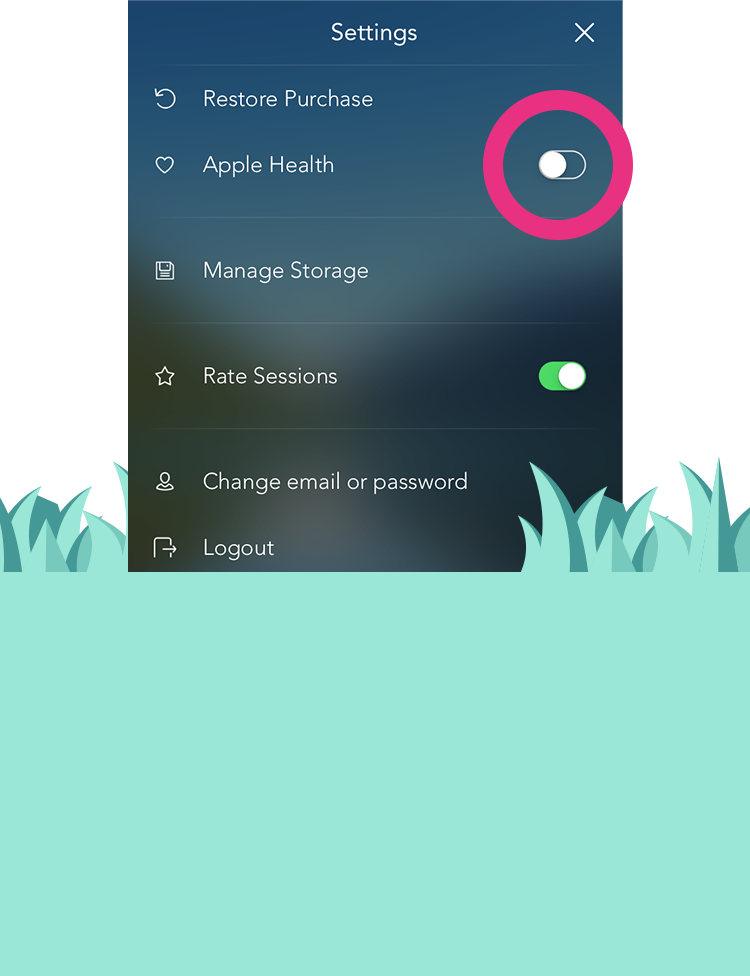
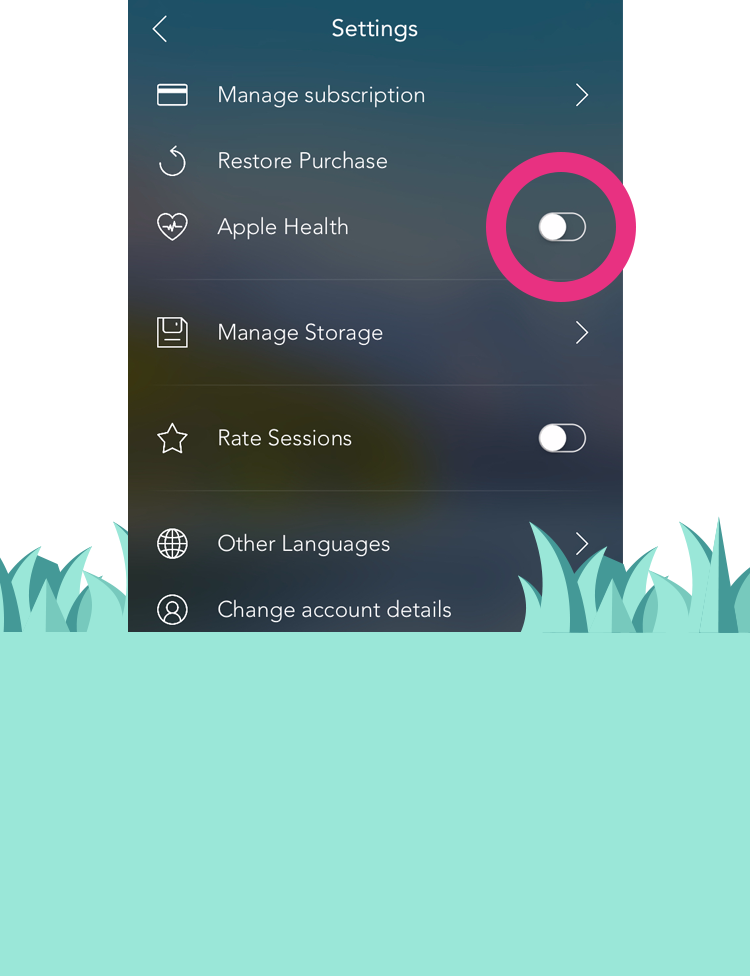
MV-375: update meditation onboarding

diff --git a/src/components/modals/meditation-set-up/meditation-set-up.modal.tsx b/src/components/modals/meditation-set-up/meditation-set-up.modal.tsx
@@ -1,9 +1,5 @@
 import React, { PureComponent } from "react";
-import {
-    NativeScrollEvent,
-    NativeSyntheticEvent,
-    ScrollView
-} from "react-native";
+import { NativeScrollEvent, NativeSyntheticEvent, Platform, ScrollView } from "react-native";
 import { Navigation } from "react-native-navigation";
 import { Style } from "../../../styles";
 import assets from "./assets";
@@ -23,17 +19,20 @@ const screens = [
     {
         backgroundImage: assets[0],
         heading: "1. download calm",
-        subheading: "First, download Calm and tap profile icon"
+        subheading: "First, download Calm and tap more icon"
     },
     {
         backgroundImage: assets[1],
-        heading: "2. tap settings",
-        subheading: "Scroll down and tap settings"
+        heading: "2. tap profile > settings",
+        subheading: "You’ll find settings in Profile page"
     },
     {
         backgroundImage: assets[2],
         heading: "3. connect",
-        subheading: "Switch on the “Google Fit” settings"
+        subheading: Platform.select({
+            android: "Switch on the “Google Fit” settings",
+            ios: "Switch on the “Apple Health” settings"
+        })
     },
     {
         backgroundImage: assets[3],
@@ -43,7 +42,6 @@ const screens = [
 ];
 
 class MeditationSetUpContainer extends PureComponent<IProps, IState> {
-
     public state = {
         activeIndex: 0
     };
@@ -91,9 +89,7 @@ class MeditationSetUpContainer extends PureComponent<IProps, IState> {
 
     private handleMomentumScrollEnd = ({
         nativeEvent: {
-            contentOffset: {
-                x
-            }
+            contentOffset: { x }
         }
     }: NativeSyntheticEvent<NativeScrollEvent>) => {
         const activeIndex = indices.findIndex((offset) => offset === x);

diff --git a/src/components/modals/meditation-set-up/assets/index.ts b/src/components/modals/meditation-set-up/assets/index.ts
@@ -1,7 +1,7 @@
 /* tslint:disable */
 import { Platform } from "react-native";
 
-export const close = require("../../../../../assets/close/close.png")
+export const close = require("../../../../../assets/close/close.png");
 
 const ios = [
     require("../../../../../assets/meditation-set-up/ios1.png"),
@@ -17,6 +17,6 @@ const android = [
     require("../../../../../assets/meditation-set-up/android4.png"),
 ];
 
-const assets = Platform.OS === "android" ? android : ios;
+const assets = Platform.select({ android, ios });
 
 export default assets;
